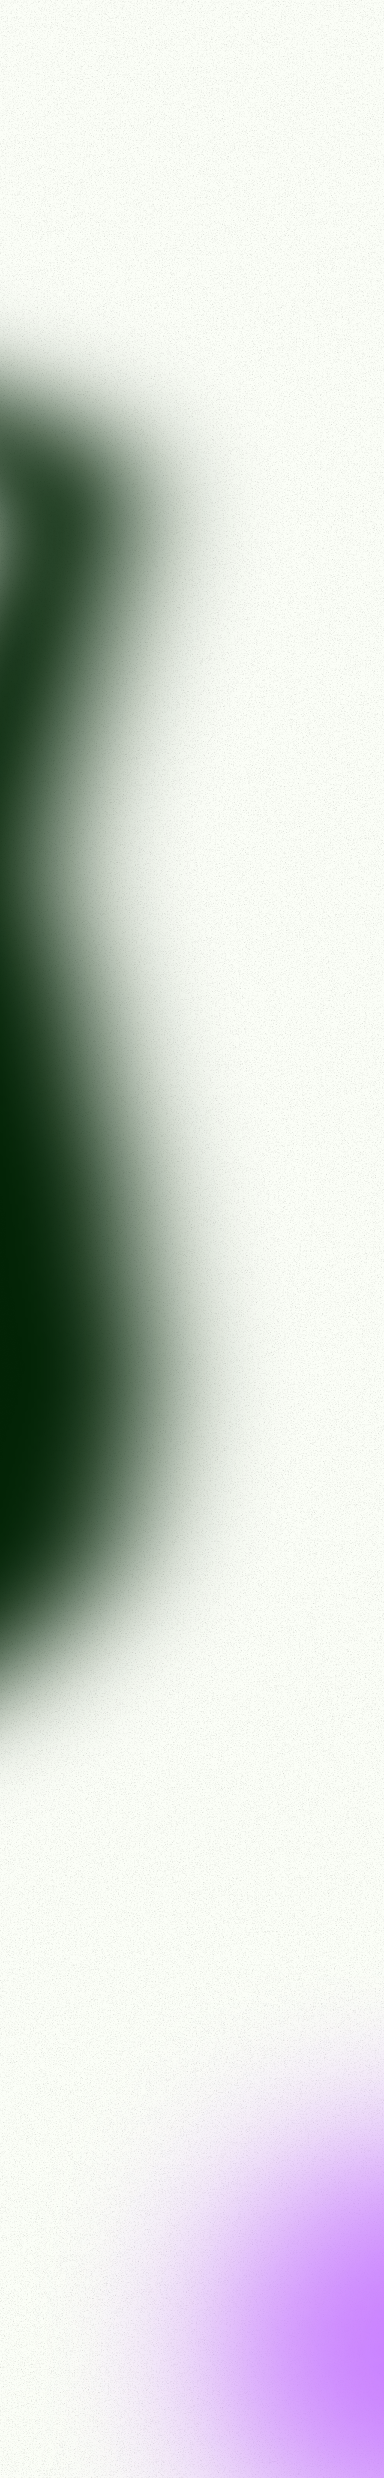
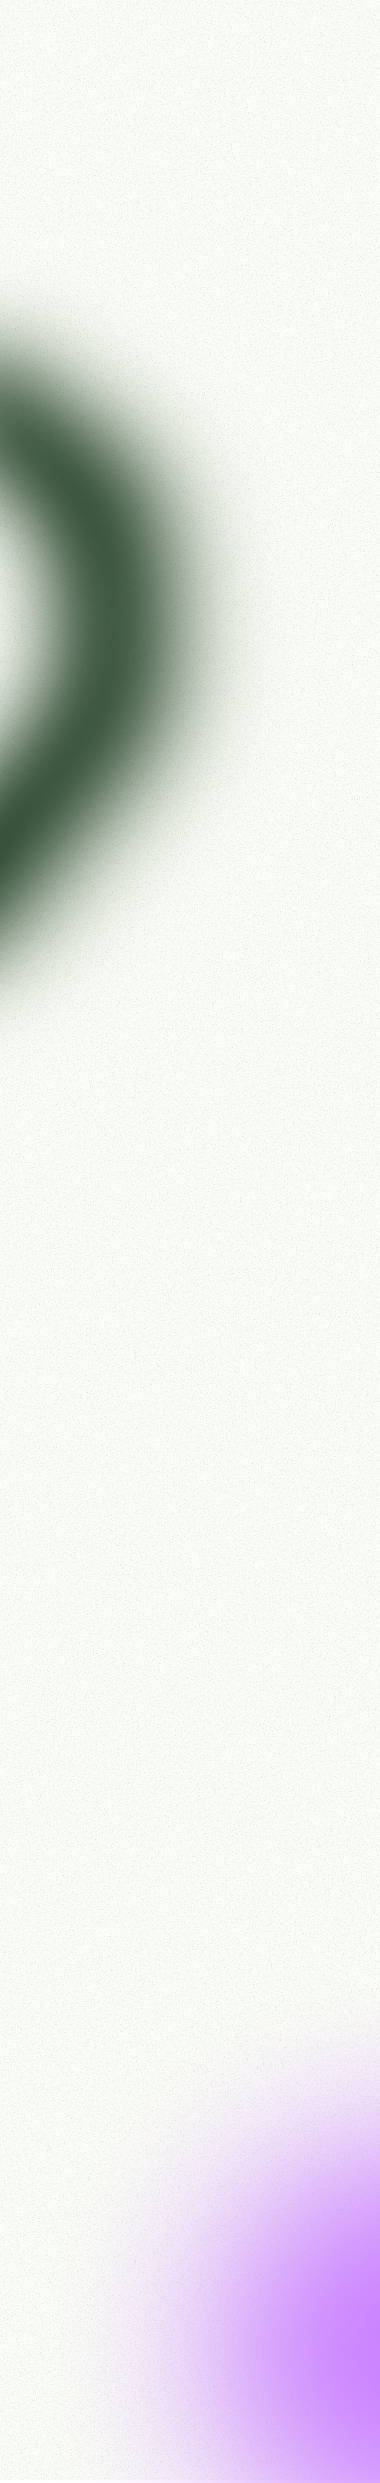
cambio de fondo

Changed region(s): [[0.0, 0.1243, 0.6079, 0.7147]]

diff --git a/src/components/home/Footer.jsx b/src/components/home/Footer.jsx
@@ -36,7 +36,7 @@ export const Footer = () => {
               target="_blank" 
               rel="noreferrer"
               title="Enviar WhatsApp"
-              className="text-lg md:text-2xl font-sans text-black hover:italic hover:text-[#b895d3] transition-all"
+              className="text-lg md:text-2xl font-sans text-black hover:italic hover:text-[#5c2586] transition-all"
             >
               1125259843
             </a>
@@ -59,7 +59,7 @@ export const Footer = () => {
             <a 
               href="/cv-eliana.pdf" 
               download="Eliana_Tomassini_CV.pdf"
-              className="text-lg md:text-2xl font-sans text-black hover:italic hover:text-[#b895d3] transition-all"
+              className="text-lg md:text-2xl font-sans text-black hover:italic hover:text-[#5c2586] transition-all"
             >
               descargar cv
             </a>

diff --git a/src/components/Accordion.jsx b/src/components/Accordion.jsx
@@ -16,7 +16,7 @@ export const ObraCard = ({ img, topLabel, accentLabel, mainLabel, extraLabel, ba
         <img
           src={img}
           alt={mainLabel}
-          className="w-full h-full object-cover transition-all duration-700 md:group-hover:scale-105"
+          className="w-full h-full object-contain transition-all duration-700 md:group-hover:scale-105"
         />
       ) : (
         <div className="w-full h-full flex items-center justify-center border border-dashed border-black/15">

diff --git a/src/pages/ObraEscrita.jsx b/src/pages/ObraEscrita.jsx
@@ -9,7 +9,7 @@ import { AccordionSection, ObraCard, CARDS_GRID } from '../components/Accordion'
 const LIBROS = [
   {
     id: 'primera-distancia',
-    img: '/distancia-1.jpeg',
+    img: '/distancia-2.jpeg',
     topLabel: 'Enero editorial, 2026',
     mainLabel: 'Primera distancia',
     badge: 'Próximo lanzamiento',
